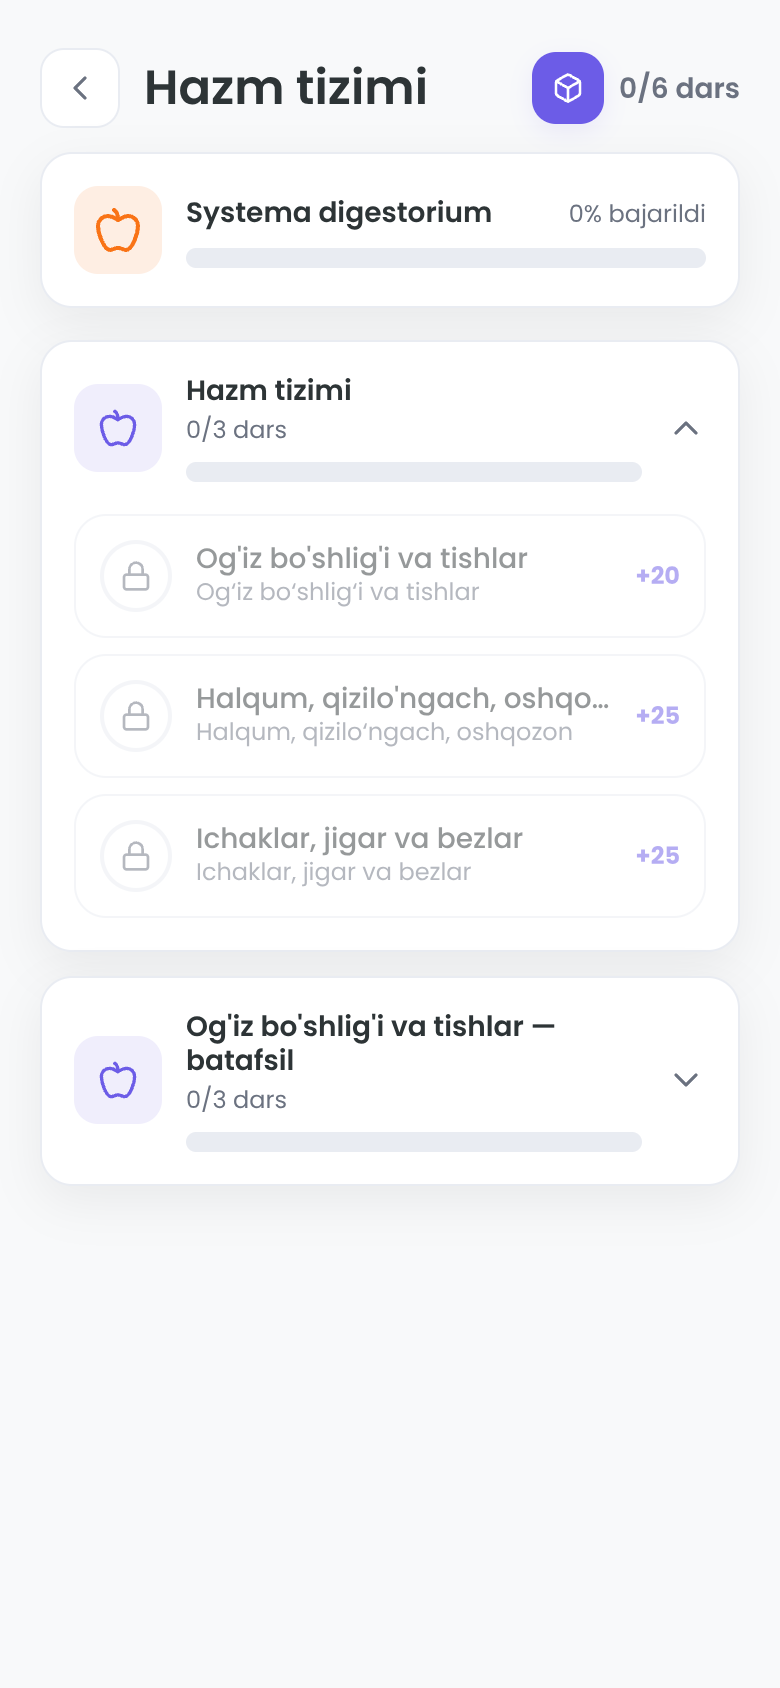
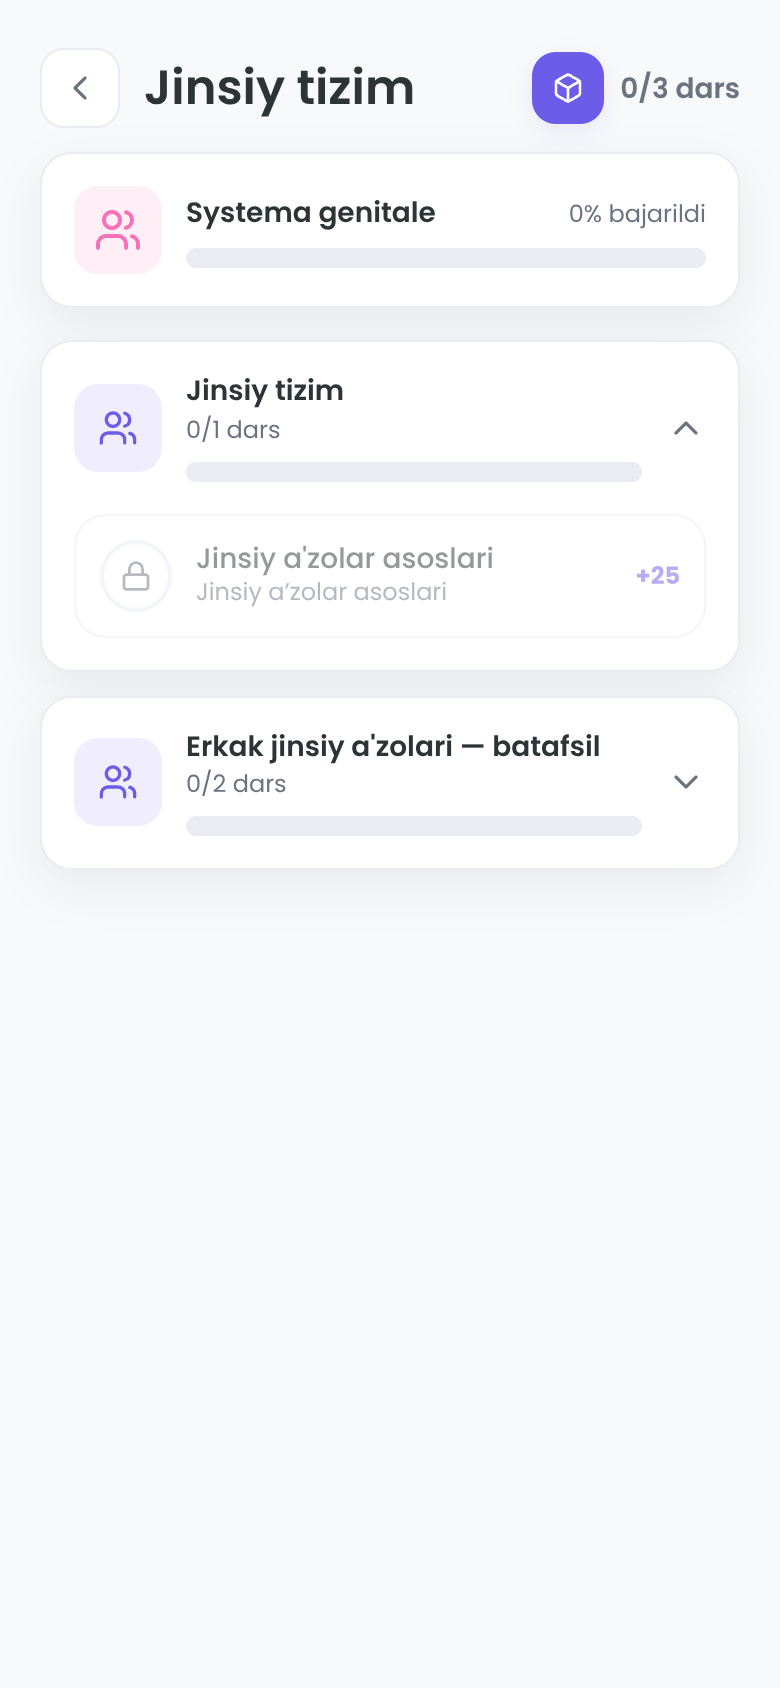
Jinsiy va endokrin tizimlar batafsil to'ldirildi
- src/data/glands.ts: REPRODUCTIVE_DETAIL + ENDOCRINE_DETAIL (4 dars, 51 savol)
- Jinsiy: erkak (moyak/epididymis/prostata), ayol (tuxumdon/follikula/bachadon/tuba)
- Endokrin: gipofiz bo'laklari, qalqonsimon (tiroksin/kretinizm), buyrak usti (adrenalin/kortizol), insulin, timus
- Jami: 68 -> 72 dars, 806 -> 857 savol

diff --git a/corpus/src/data/glands.ts b/corpus/src/data/glands.ts
@@ -1,0 +1,128 @@
+/**
+ * JINSIY + ENDOKRIN tizimlar (batafsil, kitobdan).
+ * Manba: A. Ahmedov "Anatomiya II jild" (2018), 27–72-bet.
+ */
+import type { Question, SystemUnit } from "./types";
+
+const q = (x: Question): Question => x;
+
+/* ============================================================
+   JINSIY TIZIM — batafsil
+   ============================================================ */
+export const REPRODUCTIVE_DETAIL: SystemUnit[] = [
+  {
+    id: "rp-1",
+    title: "Erkak jinsiy a'zolari — batafsil",
+    icon: "users",
+    color: "#F472B6",
+    intro: "Erkak jinsiy a'zolari ichki (moyak, moyak ortiq, urug' nay, prostata) va tashqi (jinsiy olat, yorg'oq) qismlarga bo'linadi. Moyak — juft bez, urug' hujayralari (spermatozoid) va gormon ishlab chiqaradi.",
+    lessons: [
+      {
+        id: "l72",
+        title: "Moyak va urug' yo'llari",
+        description: "Moyak, moyak ortiq, urug' olib ketuvchi nay, urug' tizimchasi",
+        xp: 30,
+        minutes: 9,
+        source: { book: "Anatomiya II jild", page: "29–40" },
+        questions: [
+          q({ type: "quiz", prompt: "Erkak jinsiy bezi qanday ataladi?", options: ["Moyak (testis)", "Tuxumdon", "Prostata", "Epididymis"], answer: 0, difficulty: "easy" }),
+          q({ type: "quiz", prompt: "Moyak lotinchada qanday ataladi?", options: ["Testis", "Ovarium", "Epididymis", "Scrotum"], answer: 0, difficulty: "easy" }),
+          q({ type: "quiz", prompt: "Moyak qanday bezlar turkumiga kiradi?", options: ["Aralash bez (tashqi va ichki sekretsiya)", "Faqat ichki", "Faqat tashqi", "Bez emas"], answer: 0, difficulty: "hard", explanation: "Moyak — aralash bez: spermatozoid (tashqi) va testosteron (ichki) ishlab chiqaradi." }),
+          q({ type: "quiz", prompt: "Moyak ortig'i lotinchada qanday ataladi?", options: ["Epididymis", "Testis", "Ductus deferens", "Prostata"], answer: 0, difficulty: "medium" }),
+          q({ type: "quiz", prompt: "Moyak ortig'ining qismlari qaysilar?", options: ["Boshi, tanasi, dumi", "Toj, bo'yin, ildiz", "Tana, ravoq, teshik", "Uchi, asosi, qanoti"], answer: 0, difficulty: "hard", explanation: "Caput (boshi), corpus (tanasi) va cauda (dumi)." }),
+          q({ type: "quiz", prompt: "Urug' olib ketuvchi nay qanday ataladi?", options: ["Ductus deferens", "Ductus epididymidis", "Urethra", "Ureter"], answer: 0, difficulty: "medium", hint: "Deferens — olib ketuvchi" }),
+          q({ type: "quiz", prompt: "Urug' olib ketuvchi nayning devori nechta qavatdan iborat?", options: ["3", "2", "4", "1"], answer: 0, difficulty: "hard", explanation: "Uch qavat: shilliq, mushak va tashqi (adventitsial)." }),
+          q({ type: "quiz", prompt: "Prostata qayerda joylashgan?", options: ["Qovuq ostida", "Buyrak ustida", "Jigarda", "Moyakda"], answer: 0, difficulty: "medium" }),
+          q({ type: "quiz", prompt: "Prostata nima ishlab chiqaradi?", options: ["Spermatozoidlarni jadallashtiruvchi suyuqlik", "Safro", "Siydik", "Gormon"], answer: 0, difficulty: "hard", explanation: "Prostata urug' suyuqligining bir qismini — spermatozoidlar harakatini jadallashtiruvchi suyuqlik ishlab chiqaradi." }),
+          q({ type: "quiz", prompt: "Urug' tizimchasi (vesicula seminalis) nima ishlab chiqaradi?", options: ["Urug' suyuqligi", "Spermatozoid", "Testosteron", "Siydik"], answer: 0, difficulty: "medium" }),
+          q({ type: "match", prompt: "Erkak jinsiy a'zolarini moslang", pairs: [["Testis", "Moyak"], ["Epididymis", "Moyak ortig'i"], ["Ductus deferens", "Urug' nayi"], ["Prostata", "Prostata bezi"]] }),
+          q({ type: "tf", prompt: "Moyak aralash bez bo'lib, spermatozoid va testosteron ishlab chiqaradi.", statement: true, difficulty: "hard" }),
+        ],
+      },
+      {
+        id: "l73",
+        title: "Ayol jinsiy a'zolari — batafsil",
+        description: "Tuxumdon, bachadon, bachadon nayi, qin",
+        xp: 30,
+        minutes: 9,
+        source: { book: "Anatomiya II jild", page: "42–54" },
+        questions: [
+          q({ type: "quiz", prompt: "Ayol jinsiy bezi qanday ataladi?", options: ["Tuxumdon (ovarium)", "Moyak", "Bachadon", "Prostata"], answer: 0, difficulty: "easy" }),
+          q({ type: "quiz", prompt: "Tuxumdon lotinchada qanday ataladi?", options: ["Ovarium", "Uterus", "Tuba", "Vagina"], answer: 0, difficulty: "easy" }),
+          q({ type: "quiz", prompt: "Tuxum hujayra chiqaradigan pufakcha qanday ataladi?", options: ["Follikula", "Alveola", "Glomerula", "Nefron"], answer: 0, difficulty: "hard", explanation: "Follikula — tuxumdon ichidagi pufakcha, tuxum hujayra shu yerda yetiladi." }),
+          q({ type: "quiz", prompt: "Bachadon lotinchada qanday ataladi?", options: ["Uterus", "Ovarium", "Tuba", "Vagina"], answer: 0, difficulty: "easy" }),
+          q({ type: "quiz", prompt: "Bachadonning pastki toraygan qismi qanday ataladi?", options: ["Cervix uteri (bachadon bo'yni)", "Fundus uteri", "Corpus uteri", "Isthmus"], answer: 0, difficulty: "hard", hint: "Cervix — bo'yin" }),
+          q({ type: "quiz", prompt: "Bachadonning yuqori gumbazsimon qismi qanday ataladi?", options: ["Fundus uteri", "Cervix uteri", "Corpus uteri", "Isthmus"], answer: 0, difficulty: "medium", hint: "Fundus — tub" }),
+          q({ type: "quiz", prompt: "Bachadon nayi lotinchada qanday ataladi?", options: ["Tuba uterina", "Uterus", "Ovarium", "Vagina"], answer: 0, difficulty: "medium", hint: "Tuba — nay" }),
+          q({ type: "quiz", prompt: "Bachadon nayining kengaygan uchki qismi qanday ataladi?", options: ["Infundibulum", "Ampulla", "Isthmus", "Fimbria"], answer: 0, difficulty: "hard", explanation: "Infundibulum — nayning voronkasimon kengaygan uchi." }),
+          q({ type: "quiz", prompt: "Urug'lanish odatda qayerda sodir bo'ladi?", options: ["Bachadon nayida", "Bachadonda", "Tuxumdonda", "Qinda"], answer: 0, difficulty: "medium", explanation: "Urug'lanish odatda bachadon nayining ampulasida sodir bo'ladi." }),
+          q({ type: "quiz", prompt: "Bachadon devorining ichki shilliq qavati qanday ataladi?", options: ["Endometrium", "Myometrium", "Perimetrium", "Serosa"], answer: 0, difficulty: "hard", explanation: "Endometrium — har oy yo'g'onlashib, urug'lanishga tayyorlanadigan ichki qavat." }),
+          q({ type: "quiz", prompt: "Bachadon devorining mushak qavati qanday ataladi?", options: ["Myometrium", "Endometrium", "Perimetrium", "Serosa"], answer: 0, difficulty: "hard", hint: "Myo — mushak" }),
+          q({ type: "match", prompt: "Ayol jinsiy a'zolarini moslang", pairs: [["Ovarium", "Tuxumdon"], ["Uterus", "Bachadon"], ["Tuba uterina", "Bachadon nayi"], ["Vagina", "Qin"]] }),
+          q({ type: "tf", prompt: "Urug'lanish odatda bachadon nayida sodir bo'ladi.", statement: true, difficulty: "medium" }),
+        ],
+      },
+    ],
+  },
+];
+
+/* ============================================================
+   ENDOKRIN — batafsil
+   ============================================================ */
+export const ENDOCRINE_DETAIL: SystemUnit[] = [
+  {
+    id: "en-1",
+    title: "Endokrin bezlar — batafsil",
+    icon: "activity",
+    color: "#F59E0B",
+    intro: "Endokrin bezlar gormonlar ishlab chiqarib, qonga ajratadi. Asosiylari: gipofiz, qalqonsimon, qalqon oldi, buyrak usti bezlari, oshqozon osti orolchalari va jinsiy bezlar.",
+    lessons: [
+      {
+        id: "l74",
+        title: "Gipofiz va qalqonsimon bez",
+        description: "Gipofiz bo'laklari, qalqonsimon/qalqon oldi bezlari",
+        xp: 30,
+        minutes: 9,
+        source: { book: "Anatomiya II jild", page: "62–72" },
+        questions: [
+          q({ type: "quiz", prompt: "Endokrin bezlar nima ajratadi?", options: ["Gormonlar", "Safro", "So'lak", "Fermentlar"], answer: 0, difficulty: "easy" }),
+          q({ type: "quiz", prompt: "Gipofiz qayerda joylashgan?", options: ["Ponasimon suyakning turk egari (sella turcica)da", "Bo'yinda", "Qorinda", "Ko'krakda"], answer: 0, difficulty: "medium" }),
+          q({ type: "quiz", prompt: "Gipofizning oldingi bo'lagi qanday ataladi?", options: ["Adenogipofiz", "Neyrogipofiz", "Epifiz", "Timus"], answer: 0, difficulty: "hard", explanation: "Adenogipofiz — gipofizning oldingi (bezli) bo'lagi." }),
+          q({ type: "quiz", prompt: "Gipofizning orqa bo'lagi qanday ataladi?", options: ["Neyrogipofiz", "Adenogipofiz", "Epifiz", "Timus"], answer: 0, difficulty: "hard", explanation: "Neyrogipofiz — gipofizning orqa (asab) bo'lagi." }),
+          q({ type: "quiz", prompt: "Gipofiz qaysi tuzilma bilan bog'langan?", options: ["Gipotalamus", "Talamus", "Miyacha", "Ko'prik"], answer: 0, difficulty: "medium" }),
+          q({ type: "quiz", prompt: "Qalqonsimon bez lotinchada qanday ataladi?", options: ["Glandula thyroidea", "Glandula parathyroidea", "Glandula suprarenalis", "Hypophysis"], answer: 0, difficulty: "medium", hint: "Thyroidea — qalqonsimon" }),
+          q({ type: "quiz", prompt: "Qalqonsimon bez qayerda joylashgan?", options: ["Bo'yinda, hiqildoq oldida", "Qorinda", "Ko'krakda", "Chanoqda"], answer: 0, difficulty: "medium" }),
+          q({ type: "quiz", prompt: "Qalqonsimon bez qaysi gormon ishlab chiqaradi?", options: ["Tiroksin", "Insulin", "Adrenalin", "Testosteron"], answer: 0, difficulty: "hard", explanation: "Tiroksin — moddalar almashinuvini boshqaruvchi gormon." }),
+          q({ type: "quiz", prompt: "Bolada qalqonsimon bez faoliyati pasaysa nima rivojlanadi?", options: ["Kretinizm", "Akromegaliya", "Qandli diabet", "Basedov kasalligi"], answer: 0, difficulty: "hard", explanation: "Kretinizm — bolalikda tiroksin yetishmasligi (jismoniy/ruhiy rivojlanish orqada qoladi)." }),
+          q({ type: "quiz", prompt: "Qalqon oldi bezi qanday ataladi?", options: ["Glandula parathyroidea", "Glandula thyroidea", "Thymus", "Pancreas"], answer: 0, difficulty: "medium", hint: "Para — oldi" }),
+          q({ type: "quiz", prompt: "Qalqon oldi bezi nechta?", options: ["4", "2", "6", "1"], answer: 0, difficulty: "hard", explanation: "To'rtta mayda qalqon oldi bezlari — qalqonsimon bez orqasida." }),
+          q({ type: "quiz", prompt: "Qalqon oldi bezi qaysi modda almashinuvini boshqaradi?", options: ["Kaltsiy (paratgormon)", "Yod", "Glyukoza", "Natriy"], answer: 0, difficulty: "hard", explanation: "Paratgormon — qonda kaltsiy darajasini boshqaradi." }),
+          q({ type: "match", prompt: "Endokrin bezlarni moslang", pairs: [["Hypophysis", "Gipofiz"], ["Glandula thyroidea", "Qalqonsimon"], ["Glandula parathyroidea", "Qalqon oldi"], ["Adenogipofiz", "Gipofiz old bo'lagi"]] }),
+          q({ type: "tf", prompt: "Gipofiz gipotalamus bilan bog'langan va gormonlar ishlab chiqarishni boshqaradi.", statement: true, difficulty: "medium" }),
+        ],
+      },
+      {
+        id: "l75",
+        title: "Buyrak usti va oshqozon osti orolchalari",
+        description: "Buyrak usti bezi qavatlari, Langerhans orolchalari, g'urrasimon bez",
+        xp: 30,
+        minutes: 9,
+        source: { book: "Anatomiya II jild", page: "66–72" },
+        questions: [
+          q({ type: "quiz", prompt: "Buyrak usti bezi lotinchada qanday ataladi?", options: ["Glandula suprarenalis", "Glandula thyroidea", "Hypophysis", "Thymus"], answer: 0, difficulty: "medium", hint: "Supra — ustida, renalis — buyrak" }),
+          q({ type: "quiz", prompt: "Buyrak usti bezi qayerda joylashgan?", options: ["Buyrak ustida", "Buyrak ostida", "Jigarda", "Taloqda"], answer: 0, difficulty: "easy" }),
+          q({ type: "quiz", prompt: "Buyrak usti bezining tashqi qavati qanday ataladi?", options: ["Po'stloq (cortex)", "Mag'iz (medulla)", "Nefron", "Glomerula"], answer: 0, difficulty: "hard", explanation: "Buyrak usti bezi po'stloq va mag'iz qavatlardan iborat." }),
+          q({ type: "quiz", prompt: "Buyrak usti bezining mag'iz qavati qaysi gormon ishlab chiqaradi?", options: ["Adrenalin", "Kortizol", "Aldosteron", "Insulin"], answer: 0, difficulty: "hard", explanation: "Mag'iz qavat adrenalin (epinefrin) ishlab chiqaradi." }),
+          q({ type: "quiz", prompt: "Buyrak usti po'stlog'i qaysi gormon ishlab chiqaradi?", options: ["Kortizol", "Adrenalin", "Insulin", "Tiroksin"], answer: 0, difficulty: "hard", explanation: "Po'stloq kortizol (stress gormoni) ishlab chiqaradi." }),
+          q({ type: "quiz", prompt: "Langerhans orolchalari qayerda joylashgan?", options: ["Oshqozon osti bezida", "Jigarda", "Buyrakda", "Taloqda"], answer: 0, difficulty: "medium" }),
+          q({ type: "quiz", prompt: "Langerhans orolchalari qaysi gormon ishlab chiqaradi?", options: ["Insulin", "Adrenalin", "Tiroksin", "Kortizol"], answer: 0, difficulty: "medium", explanation: "Beta-hujayralar insulin ishlab chiqaradi (glyukozani pasaytiradi)." }),
+          q({ type: "quiz", prompt: "Insulin yetishmasligi qanday kasallikka olib keladi?", options: ["Qandli diabet", "Kretinizm", "Akromegaliya", "Basedov"], answer: 0, difficulty: "hard", explanation: "Insulin yetishmasa — qandli diabet (giperglikemiya)." }),
+          q({ type: "quiz", prompt: "G'urrasimon bez (timus) lotinchada qanday ataladi?", options: ["Thymus", "Thyroidea", "Hypophysis", "Thyreoglossus"], answer: 0, difficulty: "medium", hint: "Thymus — g'urrasimon" }),
+          q({ type: "quiz", prompt: "Timus (g'urrasimon bez) qanday vazifa bajaradi?", options: ["Immun tizimini shakllantiradi (T-limfotsitlar)", "Safro ishlab chiqaradi", "Siydik filtrlash", "Ovqat hazm qilish"], answer: 0, difficulty: "hard", explanation: "Timus — T-limfotsitlarning yetilish joyi (immunitet)." }),
+          q({ type: "match", prompt: "Bezlarni vazifasi bilan moslang", pairs: [["Glandula suprarenalis", "Adrenalin/kortizol"], ["Langerhans orolchalari", "Insulin"], ["Thymus", "Immunitet"], ["Hypophysis", "Bosh bez"]] }),
+          q({ type: "tf", prompt: "Adrenalin — buyrak usti bezining mag'iz qavatida ishlab chiqariladi.", statement: true, difficulty: "hard" }),
+        ],
+      },
+    ],
+  },
+];

diff --git a/corpus/src/data/content.ts b/corpus/src/data/content.ts
@@ -10,6 +10,7 @@ import { HARD_QUESTIONS } from "./hardQuestions";
 import { ARTROLOGY_DETAIL, MYOLOGY_DETAIL, ANGIOLOGY_DETAIL } from "./detail";
 import { NEUROLOGY_DETAIL, SENSORY_DETAIL } from "./neuro";
 import { DIGESTIVE_DETAIL, RESPIRATORY_DETAIL, URINARY_DETAIL } from "./splanchno";
+import { REPRODUCTIVE_DETAIL, ENDOCRINE_DETAIL } from "./glands";
 
 export type { ContentSystem, Lesson, SystemUnit, Question };
 export type { QuestionType, Difficulty } from "./types";
@@ -82,11 +83,11 @@ const BASE_SYSTEMS: ContentSystem[] = [
   },
   {
     id: "reproductive", name: "Jinsiy tizim", latin: "Systema genitale", en: "Reproductive System",
-    icon: "users", color: "#F472B6", image: "/img/atlas/jinsiy.jpg", units: EXTRA_UNITS.reproductive ?? [],
+    icon: "users", color: "#F472B6", image: "/img/atlas/jinsiy.jpg", units: [...(EXTRA_UNITS.reproductive ?? []), ...REPRODUCTIVE_DETAIL],
   },
   {
     id: "endocrine", name: "Endokrin bezlar", latin: "Systema endocrinum", en: "Endocrine System",
-    icon: "activity", color: "#F59E0B", image: "/img/atlas/endokrin.jpg", units: EXTRA_UNITS.endocrine ?? [],
+    icon: "activity", color: "#F59E0B", image: "/img/atlas/endokrin.jpg", units: [...(EXTRA_UNITS.endocrine ?? []), ...ENDOCRINE_DETAIL],
   },
   {
     id: "sensory", name: "Sezgi a'zolari", latin: "Organa sensuum", en: "Sensory Organs",

diff --git a/corpus/README.md b/corpus/README.md
@@ -7,7 +7,7 @@ medical-education feel inspired by Complete Anatomy. **O'zbekcha asosiy til**, i
 
 Kontent **A. Ahmedov va boshq. "Anatomiya I/II jild" (2018) darsligi + "Odam anatomiyasi Atlas"** dan olinadi — ixtiro qilinmagan.
 
-**Jami: 11 tizim · 28 bo'lim · 68 dars · 806 savol** (butun kitob).
+**Jami: 11 tizim · 30 bo'lim · 72 dars · 857 savol** (butun kitob).
 
 | Tizim | Bo'limlar | Darslar |
 |---|---|---|
@@ -17,8 +17,8 @@ Kontent **A. Ahmedov va boshq. "Anatomiya I/II jild" (2018) darsligi + "Odam ana
 | 🍎 Hazm tizimi | 2 | 6 |
 | 🌬 Nafas tizimi | 2 | 4 |
 | 💧 Siydik tizimi | 2 | 4 |
-| 👥 Jinsiy tizim | 1 | 1 |
-| ⚡ Endokrin bezlar | 1 | 1 |
+| 👥 Jinsiy tizim | 2 | 3 |
+| ⚡ Endokrin bezlar | 2 | 3 |
 | ❤ Yurak-qon tomir | 2 | 5 |
 | 🧠 Asab tizimi | 3 | 8 |
 | ✨ Sezgi a'zolari | 2 | 4 |
